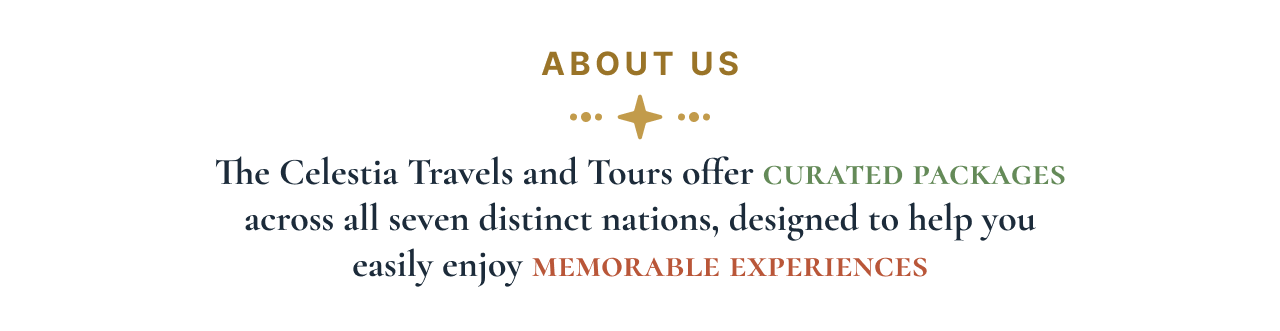
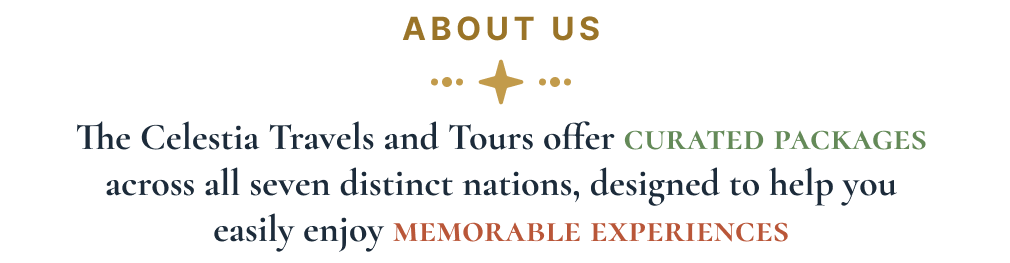
Fixed some padding inconsistencies

Changed region(s): [[0.0921, 0.6084, 0.8901, 0.9734], [0.0614, 0.4563, 0.9208, 0.5779], [0.399, 0.0608, 0.6139, 0.4259]]

diff --git a/css/styles.css b/css/styles.css
@@ -114,12 +114,12 @@ ul {
 }
 
 .logo-img {
-  height: 90px;
+  height: 70px;
   display: block;
 }
 
 .footer-logo-img {
-  height: 110px;
+  height: 100px;
 }
 
 /* ---------- 3. HEADER ---------- */
@@ -235,7 +235,7 @@ ul {
 /* ---------- 5. SHARED COMPONENTS ---------- */
 .container {
   max-width: 1198px;
-  margin: 0 auto;
+  margin: 32px auto;
   padding: 0 24px;
 }
 
@@ -483,7 +483,7 @@ ul {
 /* Cards are exported from Figma as full images (frame + text included) */
 .stop-card img {
   display: block;
-  width: 100%;
+  width: 200%;
   height: auto;
 }
 
@@ -985,7 +985,7 @@ img {
 
 
 /* =========================================================
-                      9. HOMEPAGE 
+                      9. all about HOMEPAGE 
    ========================================================= */
 
 .home-page {
@@ -1100,7 +1100,7 @@ section {
   margin: 0;
   max-width: 900px;
   font-family: var(--font-heading);
-  font-size: clamp(48px, 9vw, 96px);
+  font-size: clamp(72px, 9vw, 64px);
   line-height: 1;
   font-weight: 600;
   text-transform: uppercase;
@@ -1143,7 +1143,7 @@ section {
 
 /* ---------- HOME ABOUT ---------- */
 .home-about {
-  padding: 56px 24px 50px;
+  padding: 64px 24px 64px;
   text-align: center;
   background: var(--color-white);
 }
@@ -1187,13 +1187,13 @@ section {
   flex-wrap: wrap;
   justify-content: center;
   gap: 24px 22px;
-  max-width: 820px;
+  max-width: 1000px;
   margin: 0 auto;
 }
 
 .nation {
   display: block;
-  width: 190px;
+  width: 220px;
   transition: transform 0.25s ease;
 }
 
@@ -1219,20 +1219,20 @@ section {
 }
 
 .deco-balloon {
-  top: -70px;
+  top: -100px;
   right: -10px;
-  width: clamp(220px, 20vw, 420px);
+  width: clamp(320px, 20vw, 420px);
 }
 
 .deco-ship {
-  bottom: -50px;
+  bottom: -150px;
   left: -10px;
-  width: clamp(180px, 18vw, 380px);
+  width: clamp(420px, 18vw, 420px);
 }
 
 /* ---------- DIRECTOR ---------- */
 .director {
-  padding: 34px 50px;
+  padding: 64px 50px;
   background: var(--home-slate);
 }
 
@@ -1294,7 +1294,7 @@ section {
 
 /* ---------- TESTIMONIALS ---------- */
 .testimonials {
-  padding: 50px 50px 36px;
+  padding: 64px 50px 64px;
   text-align: center;
   color: var(--color-white);
   background:
@@ -1381,7 +1381,7 @@ section {
 
 /* ---------- FAQ ---------- */
 .faq {
-  padding: 50px 50px 60px;
+  padding: 64px 50px 64px;
   text-align: center;
   background:
     linear-gradient(rgba(74, 138, 181, 0.9), rgba(74, 138, 181, 0.9)),
